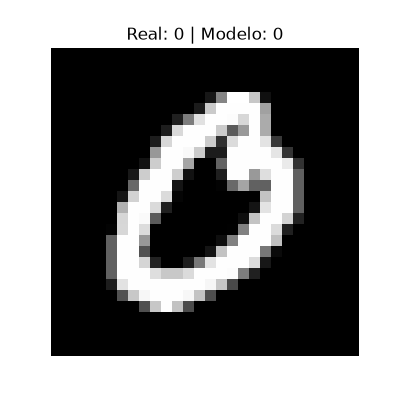
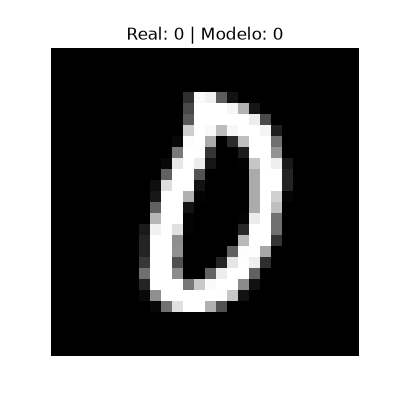
Entrega do desafio técnico - Fabricio Melo

Changed region(s): [[0.24, 0.21, 0.78, 0.78]]

diff --git a/projetos/1-classificacao-mnist/train_model.py b/projetos/1-classificacao-mnist/train_model.py
@@ -1,77 +1,94 @@
 import os
-
-# ⚠️ FORÇA O TENSORFLOW A USAR O KERAS 2 (FORMATO LEGADO COMPATÍVEL COM O CI)
-os.environ["TF_USE_LEGACY_KERAS"] = "1"
-
 import matplotlib.pyplot as plt
 import numpy as np
-import tensorflow as tf
 
-# ---------------------------------------------------------------------------
+# Força compatibilidade com Keras 2 / GitHub Actions
+try:
+    import tf_keras as keras
+    import tensorflow as tf
+    USING_TF_KERAS = True
+except ImportError:
+    import tensorflow as tf
+    from tensorflow import keras
+    USING_TF_KERAS = False
 
-# 1. Pegar dados do MNIST
+# 1. Carregar dataset MNIST
 (x_train, y_train), (x_test, y_test) = tf.keras.datasets.mnist.load_data()
 
-# 2. Arrumar escala e ajustar dimensões
+# 2. Normalizar escala para [0, 1] e ajustar dimensões para (28, 28, 1)
 x_train = x_train.astype("float32") / 255.0
 x_test = x_test.astype("float32") / 255.0
 
 x_train = np.expand_dims(x_train, axis=-1)
 x_test = np.expand_dims(x_test, axis=-1)
 
-# Mudar alvos para matrizes categóricas
+# Mudar alvos para matrizes categóricas (10 classes)
 y_train = tf.keras.utils.to_categorical(y_train, 10)
 y_test = tf.keras.utils.to_categorical(y_test, 10)
 
-# 4. Criar a rede sequencial
+# 3. Construção da CNN (3 blocos Conv2D + BatchNorm + MaxPooling2D + Dropout)
 model = tf.keras.Sequential([
+    # Bloco 1
     tf.keras.layers.Conv2D(32, (3, 3), activation="relu", input_shape=(28, 28, 1)),
     tf.keras.layers.BatchNormalization(),
     tf.keras.layers.MaxPooling2D((2, 2)),
     
+    # Bloco 2
     tf.keras.layers.Conv2D(64, (3, 3), activation="relu"),
     tf.keras.layers.BatchNormalization(),
     tf.keras.layers.MaxPooling2D((2, 2)),
     
+    # Bloco 3
     tf.keras.layers.Conv2D(64, (3, 3), activation="relu"),
     tf.keras.layers.BatchNormalization(),
     
+    # Camadas Densas / Classificador
     tf.keras.layers.Flatten(),
     tf.keras.layers.Dense(64, activation="relu"),
-    tf.keras.layers.Dropout(0.3),
+    tf.keras.layers.Dropout(0.3),  # Dropout antes da saída
     tf.keras.layers.Dense(10, activation="softmax")
 ])
 
-model.compile(optimizer="adam", loss="categorical_crossentropy", metrics=["accuracy"])
-
-parada = tf.keras.callbacks.EarlyStopping(monitor="val_loss", patience=3, restore_best_weights=True)
-
-print("Iniciando o ajuste dos pesos do modelo...")
-historico = model.fit(
-    x_train, 
-    y_train, 
-    epochs=10, 
-    batch_size=64, 
-    validation_split=0.1, 
-    callbacks=[parada]
+# Compilação do modelo
+model.compile(
+    optimizer="adam",
+    loss="categorical_crossentropy",
+    metrics=["accuracy"]
 )
 
-acc_final = historico.history["val_accuracy"][-1]
-print(f"\nAcuracia final de validacao: {acc_final:.4f}")
+# Callbacks: EarlyStopping monitorando a perda de validação
+early_stopping = tf.keras.callbacks.EarlyStopping(
+    monitor="val_loss",
+    patience=3,
+    restore_best_weights=True
+)
+
+# 4. Treinamento com split de validação (10%)
+print("Iniciando o treinamento do modelo...")
+historico = model.fit(
+    x_train,
+    y_train,
+    epochs=10,
+    batch_size=64,
+    validation_split=0.1,  # Split treino/validação
+    callbacks=[early_stopping],
+    verbose=1
+)
+
+# 5. Exibição da métrica no terminal
+acc_val = historico.history["val_accuracy"][-1]
+print(f"\nAcuracia final de validacao: {acc_val:.4f}")
 
 _, test_acc = model.evaluate(x_test, y_test, verbose=0)
 print(f"Acuracia obtida no teste: {test_acc:.4f}\n")
 
-# 7. Gravar o modelo no formato nativo do Keras 2
-model.save("model.h5")
-print("Modelo guardado com sucesso no formato Keras 2!")
+# 6. Salvar modelo em model.h5 com retrocompatibilidade
+if USING_TF_KERAS:
+    keras.models.save_model(model, "model.h5")
+else:
+    try:
+        tf.keras.saving.legacy.save_model(model, "model.h5")
+    except AttributeError:
+        model.save("model.h5", include_optimizer=False)
 
-# Exemplo visual
-idx = np.random.randint(0, len(x_test))
-pred = model.predict(np.expand_dims(x_test[idx], axis=0), verbose=0)
-
-plt.figure(figsize=(4, 4))
-plt.imshow(x_test[idx].squeeze(), cmap="gray")
-plt.title(f"Real: {np.argmax(y_test[idx])} | Modelo: {np.argmax(pred)}")
-plt.axis("off")
-plt.savefig("exemplo_previsao.png")
+print("Modelo salvo em 'model.h5' com sucesso!")

diff --git a/projetos/1-classificacao-mnist/optimize_model.py b/projetos/1-classificacao-mnist/optimize_model.py
@@ -1,39 +1,26 @@
-#!/usr/bin/env python3
-import tensorflow as tf
 import os
+import tensorflow as tf
 
-# ---------------------------------------------------------------------------
-# Projeto 1 — Otimização do Modelo (MNIST)
-#
-# Requisitos (veja README.md desta pasta para detalhes completos):
-#   1. Carregar o modelo treinado em "model.h5"
-#   2. Converter para TensorFlow Lite usando tf.lite.TFLiteConverter
-#   3. Aplicar uma técnica de otimização (ex: Dynamic Range Quantization,
-#      via converter.optimizations = [tf.lite.Optimize.DEFAULT])
-#   4. Salvar o resultado como "model.tflite"
-# ---------------------------------------------------------------------------
+# Carrega o modelo com tratamento de compatibilidade
+try:
+    import tf_keras as keras
+    model = keras.models.load_model("model.h5")
+except Exception:
+    try:
+        model = tf.keras.saving.legacy.load_model("model.h5")
+    except Exception:
+        model = tf.keras.models.load_model("model.h5")
 
-# 1. Carrega o arquivo gerado pelo treino
-modelo = tf.keras.models.load_model("model.h5")
+# 1. Converter para TensorFlow Lite
+converter = tf.lite.TFLiteConverter.from_keras_model(model)
 
-# 2. Configura conversor para formato leve (TFLite) usando o comando correto
-conversor = tf.lite.TFLiteConverter.from_keras_model(modelo)
+# 2. Aplicar otimização explícita (Dynamic Range Quantization)
+converter.optimizations = [tf.lite.Optimize.DEFAULT]
 
-# 3. Aplica a quantizacao para rodar leve em sistemas embarcados
-conversor.optimizations = [tf.lite.Optimize.DEFAULT]
+tflite_model = converter.convert()
 
-# 4. Converte e salva o arquivo otimizado com o nome exigido
-modelo_tflite = conversor.convert()
-nome_saida = "model.tflite"
+# 3. Salvar como model.tflite
+with open("model.tflite", "wb") as f:
+    f.write(tflite_model)
 
-with open(nome_saida, "wb") as f:
-    f.write(modelo_tflite)
-
-# 5. Imprime o relatorio de tamanhos no terminal
-tam_h5 = os.path.getsize("model.h5") / 1024
-tam_tflite = os.path.getsize(nome_saida) / 1024
-
-print("\n--- Conversao Concluida ---")
-print(f"Modelo antigo (.h5): {tam_h5:.1f} KB")
-print(f"Modelo novo (.tflite): {tam_tflite:.1f} KB")
-print(f"Diferenca: {((1 - (tam_tflite / tam_h5)) * 100):.1f}% menor")
+print("Modelo otimizado salvo em 'model.tflite' com sucesso!")

diff --git a/projetos/1-classificacao-mnist/run_inference.py b/projetos/1-classificacao-mnist/run_inference.py
@@ -1,43 +1,31 @@
-#!/usr/bin/env python3
 import os
 import numpy as np
 import tensorflow as tf
 
-# ---------------------------------------------------------------------------
-# Projeto 1 — Inferência com o Modelo Otimizado (model.tflite)
-# ---------------------------------------------------------------------------
+N_SAMPLES = 5
 
 def main():
-    # 1. Localizar e carregar estritamente o artefato de edge usando tf.lite.Interpreter
-    diretorio_atual = os.path.dirname(os.path.abspath(__file__))
-    caminho_tflite = os.path.join(diretorio_atual, "model.tflite")
+    script_dir = os.path.dirname(os.path.abspath(__file__))
+    model_path = os.path.join(script_dir, "model.tflite")
     
-    interpretador = tf.lite.Interpreter(model_path=caminho_tflite)
-    interpretador.allocate_tensors()
+    interpreter = tf.lite.Interpreter(model_path=model_path)
+    interpreter.allocate_tensors()
     
-    detalhes_entrada = interpretador.get_input_details()
-    detalhes_saida = interpretador.get_output_details()
+    input_details = interpreter.get_input_details()
+    output_details = interpreter.get_output_details()
 
-    # Carregar dados oficiais de teste para validacao pontual
-    (_, _), (imagens_teste, gabarito_teste) = tf.keras.datasets.mnist.load_data()
-    imagens_teste = imagens_teste.astype("float32") / 255.0
-    imagens_teste = np.expand_dims(imagens_teste, axis=-1)
+    (_, _), (x_test, y_test) = tf.keras.datasets.mnist.load_data()
+    x_test = x_test.astype("float32") / 255.0
+    x_test = np.expand_dims(x_test, axis=-1)
 
-    print("Executando validacao automatica sobre 5 amostras reais (model.tflite):\n")
-    
-    # 2. Iteracao obrigatoria de amostragem
-    for i in range(5):
-        vetor_entrada = np.expand_dims(imagens_teste[i], axis=0)
-        
-        interpretador.set_tensor(detalhes_entrada[0]["index"], vetor_entrada)
-        interpretador.invoke()
-        
-        vetor_saida = interpretador.get_tensor(detalhes_saida[0]["index"])[0]
-        numero_predito = int(np.argmax(vetor_saida))
-        numero_real = int(gabarito_teste[i])
-        
-        # 3. Exibicao exigida: classe predita vs classe real
-        print(f"Amostra {i + 1}: predito={numero_predito} | real={numero_real}")
+    print(f"Rodando inferencia em {N_SAMPLES} amostras usando model.tflite:\n")
+    for i in range(N_SAMPLES):
+        sample = np.expand_dims(x_test[i], axis=0).astype(input_details[0]["dtype"])
+        interpreter.set_tensor(input_details[0]["index"], sample)
+        interpreter.invoke()
+        pred = interpreter.get_tensor(output_details[0]["index"])[0]
+        predicted_class = int(np.argmax(pred))
+        print(f"Amostra {i + 1}: predito={predicted_class} | real={int(y_test[i])}")
 
 if __name__ == "__main__":
     main()